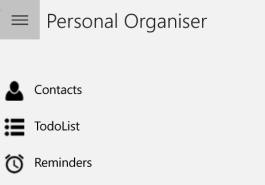
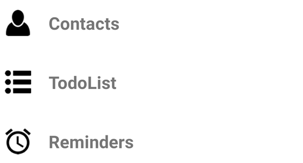
ListView becomes CollectionView.

diff --git a/docs/user-interface/pages/flyoutpage.md b/docs/user-interface/pages/flyoutpage.md
@@ -1,7 +1,7 @@
 ---
 title: "FlyoutPage"
 description: "The .NET MAUI FlyoutPage is a page that manages two related pages of information – a flyout page that presents items, and a detail page that presents details about items on the flyout page."
-ms.date: 03/15/2022
+ms.date: 04/11/2022
 ---
 
 # FlyoutPage
@@ -63,9 +63,10 @@ The following example shows the definition of the `FlyoutMenuPage` object, which
              Padding="0,40,0,0"
              IconImageSource="hamburger.png"
              Title="Personal Organiser">
-    <ListView x:Name="listView"
-              x:FieldModifier="public">
-        <ListView.ItemsSource>
+    <CollectionView x:Name="collectionView"
+                    x:FieldModifier="public"
+                    SelectionMode="Single">
+        <CollectionView.ItemsSource>
             <x:Array Type="{x:Type local:FlyoutPageItem}">
                 <local:FlyoutPageItem Title="Contacts"
                                       IconSource="contacts.png"
@@ -77,27 +78,29 @@ The following example shows the definition of the `FlyoutMenuPage` object, which
                                       IconSource="reminders.png"
                                       TargetType="{x:Type local:ReminderPage}" />
             </x:Array>
-        </ListView.ItemsSource>
-        <ListView.ItemTemplate>
+        </CollectionView.ItemsSource>
+        <CollectionView.ItemTemplate>
             <DataTemplate>
-                <ViewCell>
-                    <Grid Padding="5,10">
-                        <Grid.ColumnDefinitions>
-                            <ColumnDefinition Width="30"/>
-                            <ColumnDefinition Width="*" />
-                        </Grid.ColumnDefinitions>
-                        <Image Source="{Binding IconSource}" />
-                        <Label Grid.Column="1"
-                               Text="{Binding Title}" />
-                    </Grid>
-                </ViewCell>
+                <Grid Padding="5,10">
+                    <Grid.ColumnDefinitions>
+                        <ColumnDefinition Width="30"/>
+                        <ColumnDefinition Width="*" />
+                    </Grid.ColumnDefinitions>
+                    <Image Source="{Binding IconSource}" />
+                    <Label Grid.Column="1"
+                           Margin="20,0"
+                           Text="{Binding Title}"
+                           FontSize="20"
+                           FontAttributes="Bold"
+                           VerticalOptions="Center" />
+                </Grid>
             </DataTemplate>
-        </ListView.ItemTemplate>
-    </ListView>
+        </CollectionView.ItemTemplate>
+    </CollectionView>
 </ContentPage>
 ```
 
-In this example, the flyout page consists of a `ListView` that's populated with data by setting its `ItemsSource` property to an array of `FlyoutPageItem` objects. The following example shows the definition of the `FlyoutPageItem` class:
+In this example, the flyout page consists of a `CollectionView` that's populated with data by setting its `ItemsSource` property to an array of `FlyoutPageItem` objects. The following example shows the definition of the `FlyoutPageItem` class:
 
 ```csharp
 public class FlyoutPageItem
@@ -108,7 +111,7 @@ public class FlyoutPageItem
 }
 ```
 
-A `DataTemplate` is assigned to the `ListView.ItemTemplate` property, to display each `FlyoutPageItem`. The `DataTemplate` contains a `ViewCell` that consists of an `Image` and a `Label`. The `Image` displays the `IconSource` property value, and the `Label` displays the `Title` property value, for each `FlyoutPageItem`. In addition, the flyout page has its `Title` and `IconImageSource` properties set. The icon will appear on the detail page, provided that the detail page has a title bar.
+A `DataTemplate` is assigned to the `CollectionView.ItemTemplate` property, to display each `FlyoutPageItem`. The `DataTemplate` contains a `Grid` that consists of an `Image` and a `Label`. The `Image` displays the `IconSource` property value, and the `Label` displays the `Title` property value, for each `FlyoutPageItem`. In addition, the flyout page has its `Title` and `IconImageSource` properties set. The icon will appear on the detail page, provided that the detail page has a title bar.
 
 > [!NOTE]
 > The `Flyout` page must have its `Title` property set, or an exception will occur.
@@ -119,7 +122,7 @@ The following screenshot shows the resulting flyout:
 
 ### Create and display the detail page
 
-The `FlyoutMenuPage` object contains a `ListView` that's referenced from the `MainPage` class. This allows the `MainPage` class to register a handler for `ItemSelected` event. This enables the `MainPage` object to set the `Detail` property to the page that represents the selected `ListView` item. The following example shows the event handler:
+The `FlyoutMenuPage` object contains a `CollectionView` that's referenced from the `MainPage` class. This allows the `MainPage` class to register a handler for the `SelectionChanged` event. This enables the `MainPage` object to set the `Detail` property to the page that represents the selected `CollectionView` item. The following example shows the event handler:
 
 ```csharp
 public partial class MainPage : FlyoutPage
@@ -127,23 +130,22 @@ public partial class MainPage : FlyoutPage
     public MainPage()
     {
         ...
-        flyoutPage.listView.ItemSelected += OnItemSelected;
+        flyoutPage.collectionView.SelectionChanged += OnSelectionChanged;
     }
 
-    void OnItemSelected(object sender, SelectedItemChangedEventArgs e)
+    void OnSelectionChanged(object sender, SelectionChangedEventArgs e)
     {
-        FlyoutPageItem item = e.SelectedItem as FlyoutPageItem;
+        var item = e.CurrentSelection.FirstOrDefault() as FlyoutPageItem;
         if (item != null)
-        {
+        {            
             Detail = new NavigationPage((Page)Activator.CreateInstance(item.TargetType));
-            flyoutPage.listView.SelectedItem = null;
             IsPresented = false;
         }
     }
 }
 ```
 
-In this example, the `OnItemSelected` event handler retrieves the `SelectedItem` from the `ListView` object and sets the detail page to an instance of the page type stored in the `TargetType` property of the `FlyoutPageItem`. The detail page is displayed by setting the `FlyoutPage.IsPresented` property to `false`.
+In this example, the `OnSelectionChanged` event handler retrieves the `CurrentSelection` from the `CollectionView` object and sets the detail page to an instance of the page type stored in the `TargetType` property of the `FlyoutPageItem`. The detail page is displayed by setting the `FlyoutPage.IsPresented` property to `false`.
 
 ## Control detail page layout behavior
 
